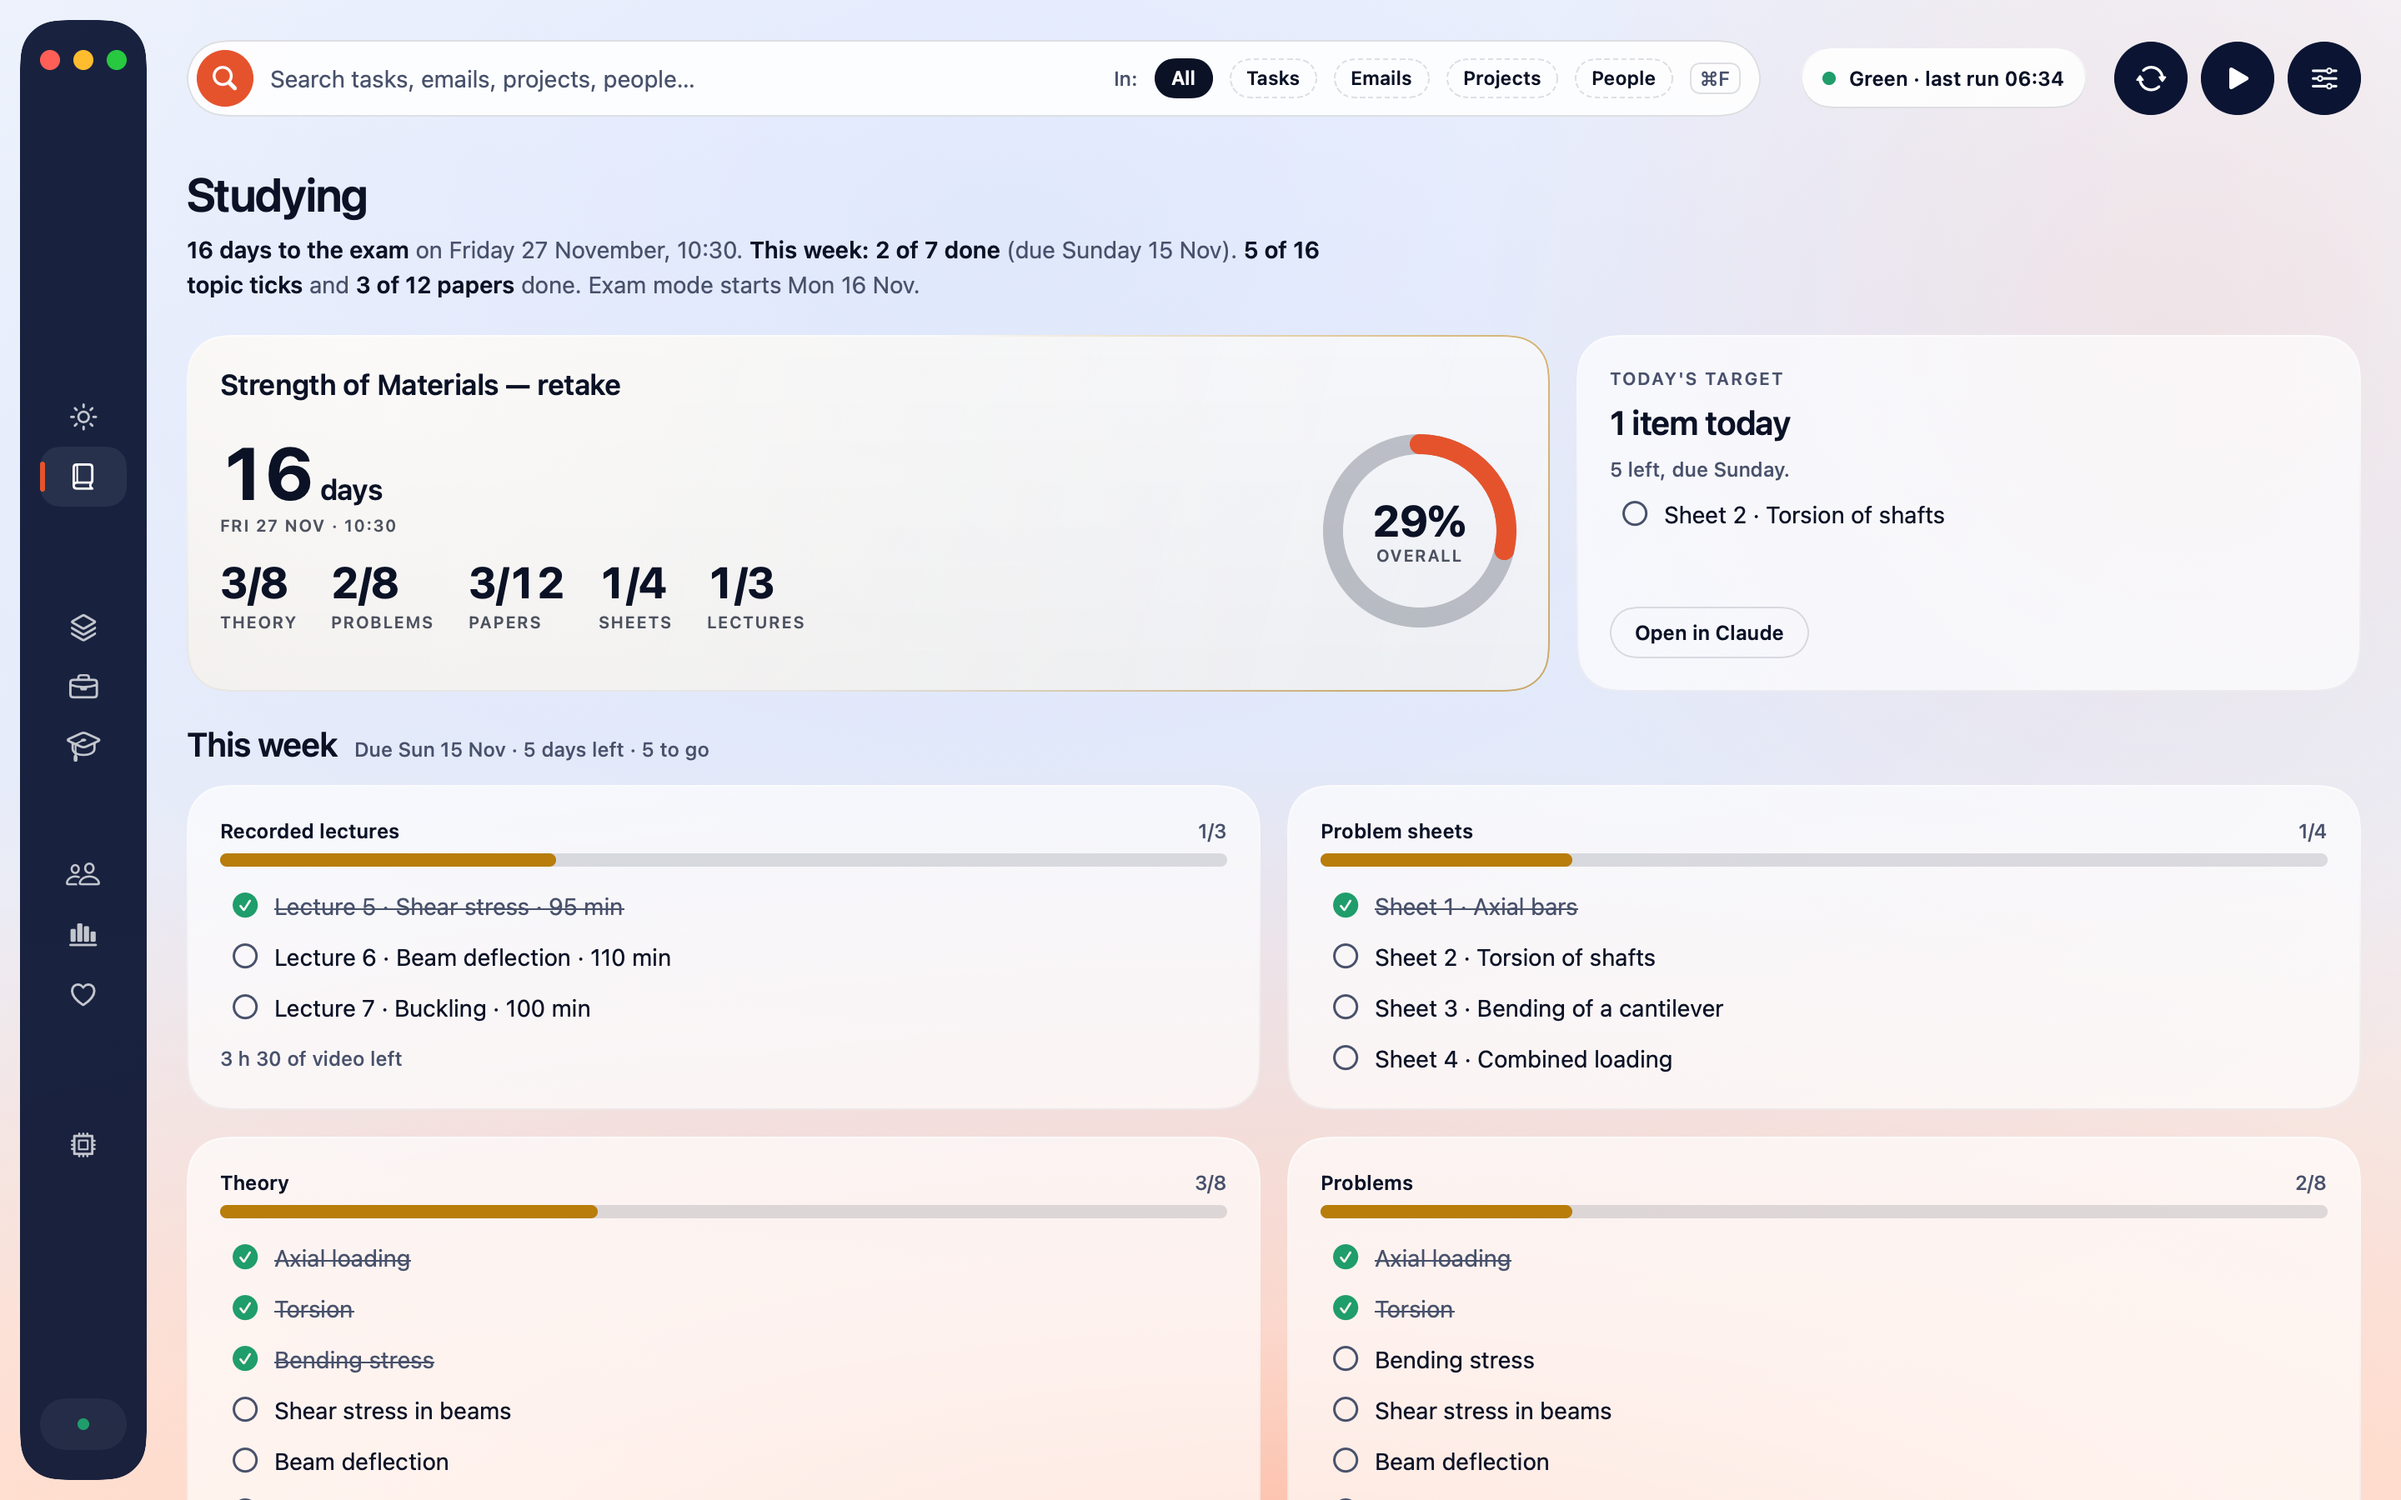
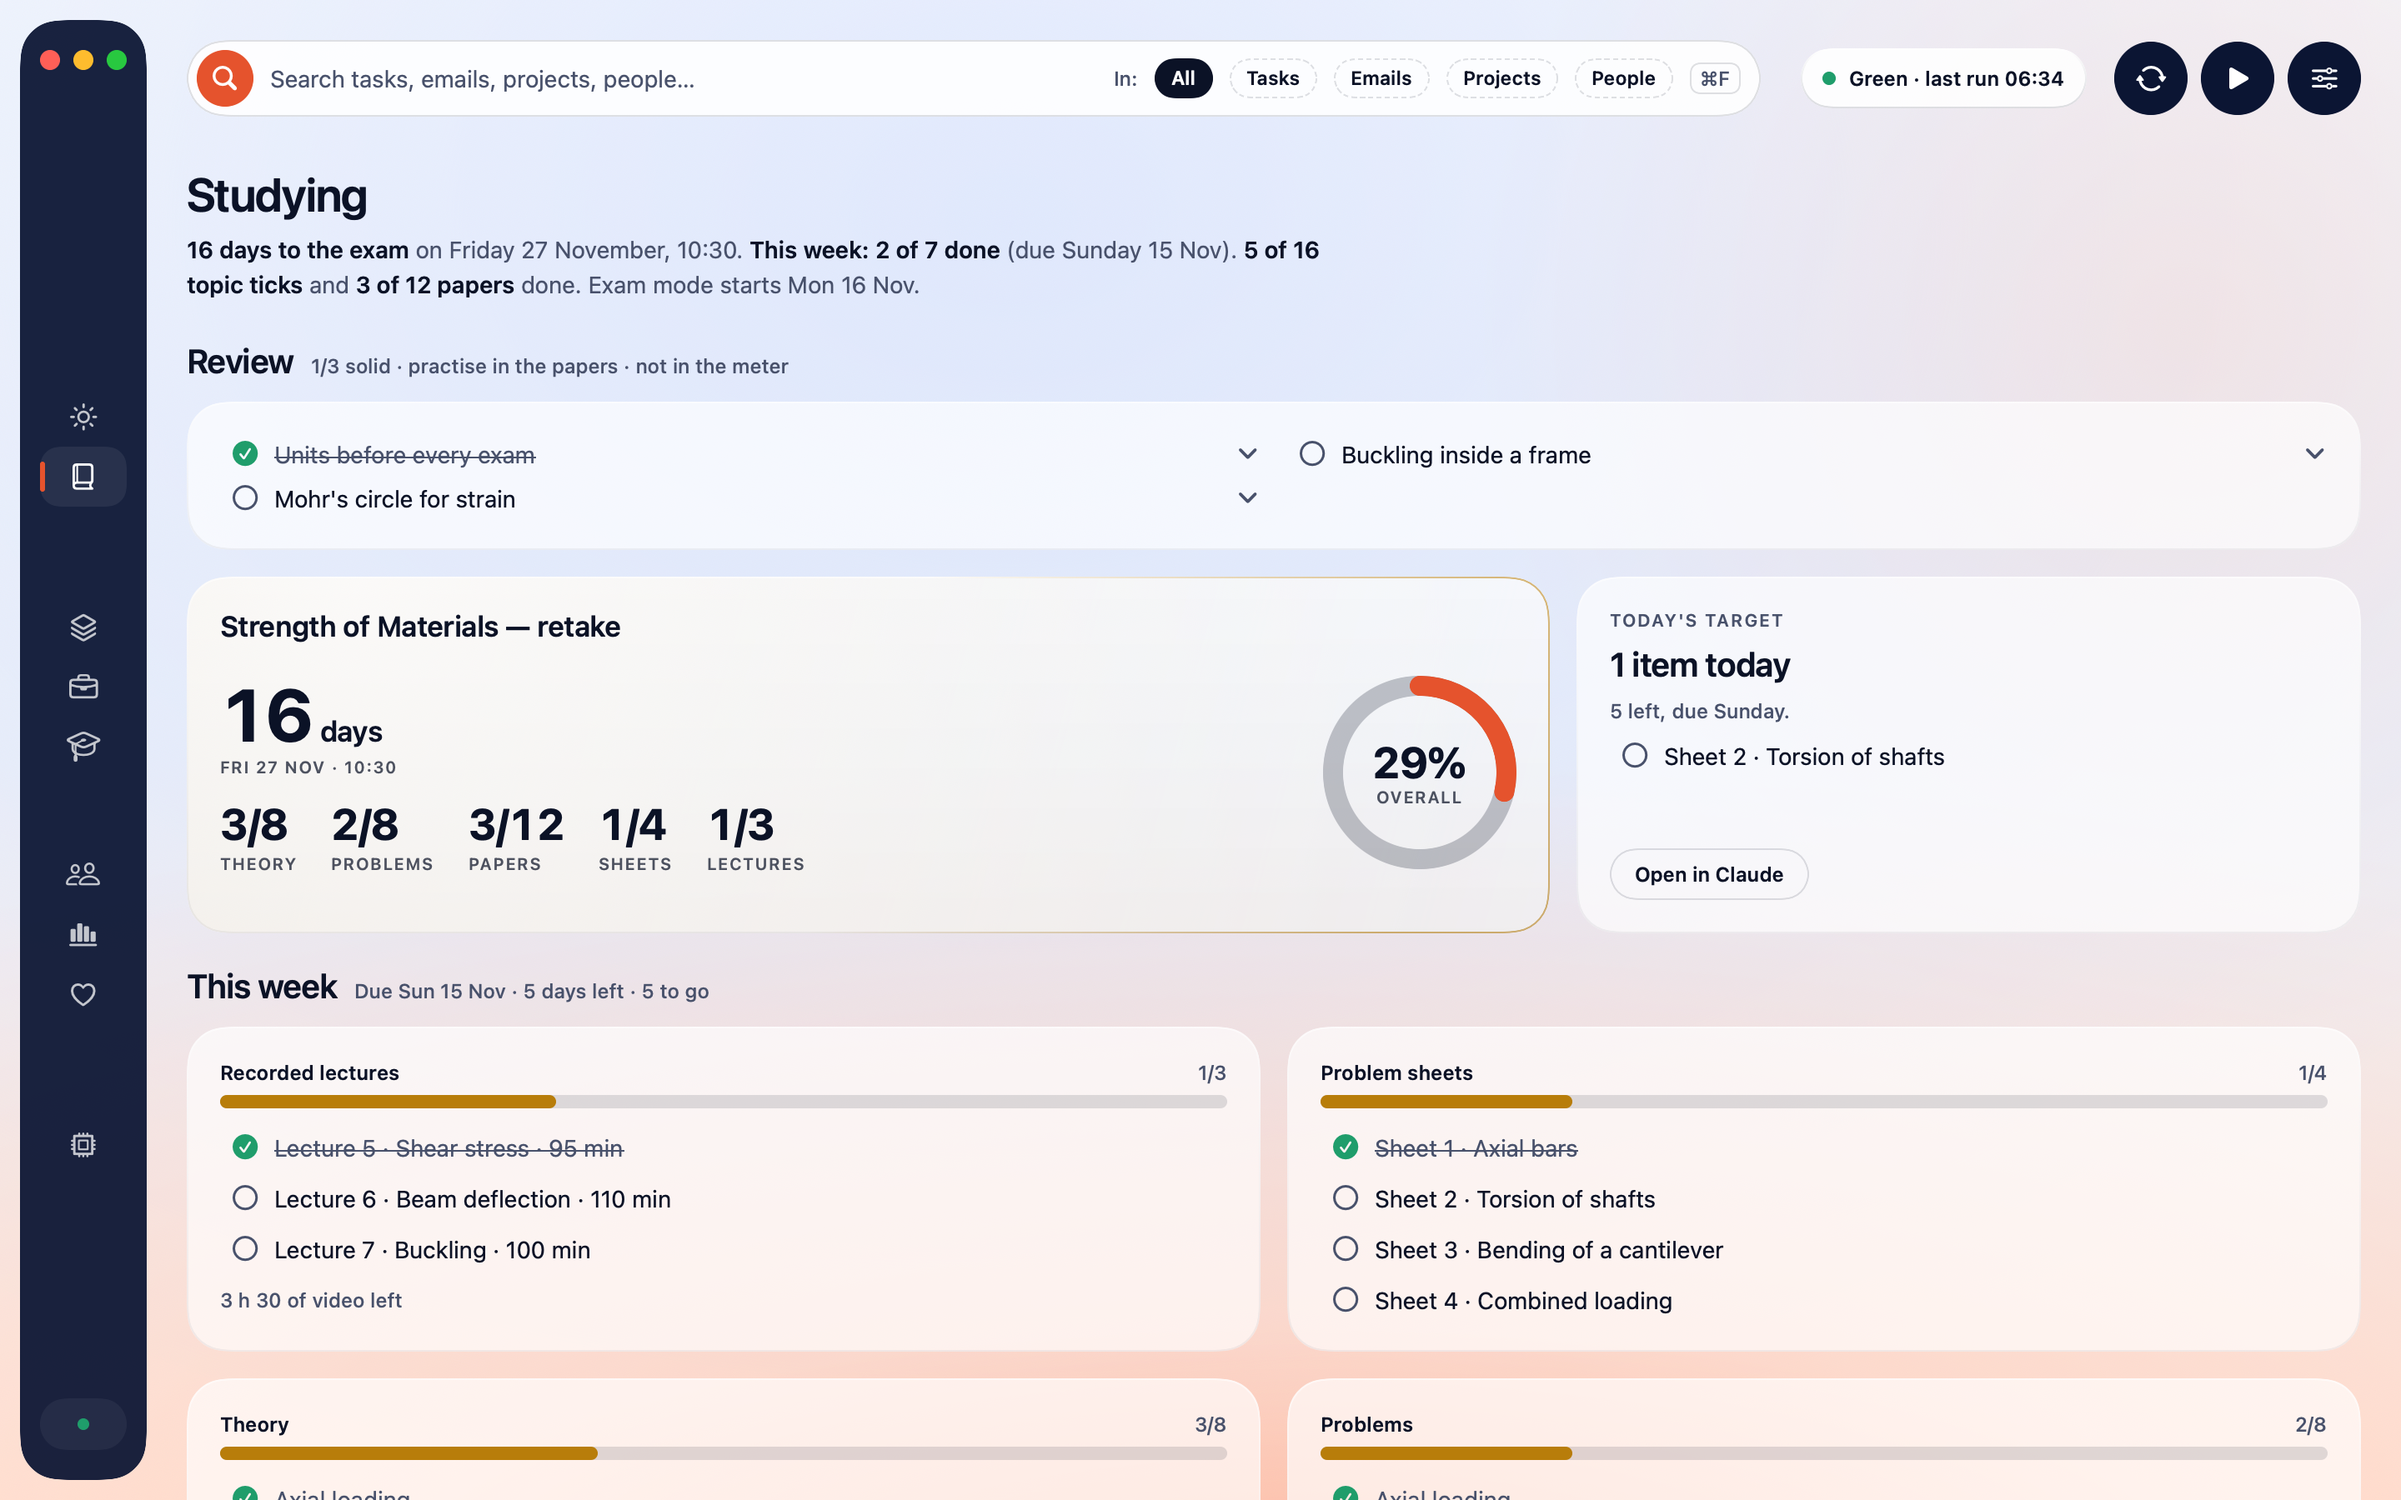
Studying: a Review card first, for concepts practised through the papers; not in the meter

Changed region(s): [[0.0625, 0.2178, 1.0, 1.0], [0.6562, 0.4044, 0.75, 0.5289], [0.75, 0.4978, 0.8125, 0.5289]]

diff --git a/Sources/Desk/Tabs/Studying/Studying.swift b/Sources/Desk/Tabs/Studying/Studying.swift
@@ -111,6 +111,74 @@ struct StudyTargetCard: View {
     }
 }
 
+/// `## Review`: concepts to practise through the papers, in two columns. Ticked when solid; not in the meter.
+struct StudyReview: View {
+    @Environment(Store.self) private var store
+    @Environment(\.theme) private var t
+
+    var body: some View {
+        let d = store.d
+        if let path = d.data.settings.exam?.file, let review = d.study?.review, !review.isEmpty {
+            let half = (review.count + 1) / 2
+            VStack(alignment: .leading, spacing: t.sp8) {
+                SectionHeader(title: "Review", subtitle: "\(d.reviewProgress.text) solid · practise in the papers · not in the meter")
+                SurfaceCard {
+                    HStack(alignment: .top, spacing: t.sp16) {
+                        column(review.prefix(half), path)
+                        column(review.dropFirst(half), path)
+                    }
+                }
+            }
+        }
+    }
+
+    private func column(_ concepts: ArraySlice<StudyFile.Concept>, _ path: String) -> some View {
+        VStack(alignment: .leading, spacing: t.sp4) {
+            ForEach(concepts) { concept in
+                ConceptRow(path: path, concept: concept)
+            }
+        }
+        .frame(maxWidth: .infinity, alignment: .leading)
+    }
+}
+
+/// One review concept: its tick, and its notes behind a chevron.
+private struct ConceptRow: View {
+    @Environment(\.theme) private var t
+    @State private var open = false
+    let path: String
+    let concept: StudyFile.Concept
+
+    var body: some View {
+        VStack(alignment: .leading, spacing: t.sp2) {
+            HStack(spacing: t.sp4) {
+                CheckLine(path: path, check: concept.check)
+                if !concept.notes.isEmpty {
+                    Button { open.toggle() } label: {
+                        Image(systemName: open ? "chevron.up" : "chevron.down")
+                            .font(.system(size: t.symbolSmall, weight: .bold))
+                            .foregroundStyle(t.inkMuted)
+                            .frame(width: t.symbol, height: t.symbol)
+                            .contentShape(Rectangle())
+                    }
+                    .buttonStyle(.plain)
+                    .help(open ? "Hide notes" : "Show notes")
+                    .accessibilityLabel(Text(verbatim: (open ? "Hide notes for " : "Show notes for ") + concept.check.title))
+                }
+            }
+            if open {
+                VStack(alignment: .leading, spacing: t.sp2) {
+                    ForEach(Array(concept.notes.enumerated()), id: \.offset) { _, note in
+                        Text(verbatim: note).style(\.small, \.inkMuted).fixedSize(horizontal: false, vertical: true)
+                    }
+                }
+                .padding(.leading, t.symbol + t.sp8 + t.sp6)
+                .padding(.bottom, t.sp4)
+            }
+        }
+    }
+}
+
 /// The study file's own lists ("This weekend — due 2026-11-15"): a card per `###` group, two side by side.
 struct StudyLists: View {
     @Environment(Store.self) private var store

diff --git a/Sources/Desk/Model/Parsing/Parse+Study.swift b/Sources/Desk/Model/Parsing/Parse+Study.swift
@@ -44,8 +44,35 @@ extension Parse {
             planPerDay: min(maxPlanPerDay, max(0, fields["plan_per_day"].flatMap(Int.init) ?? 0)), planStart: day(fields["plan_start"], cal),
             theory: group("Theory"), problems: group("Problems"), papers: papers,
             lists: lists,
-            counts: studyCounts(fields["counts"])
+            counts: studyCounts(fields["counts"]),
+            review: studyReview(lines, from: bodyStart)
         )
+    }
+
+    /// `## Review`: each checkbox is a concept, and the indented bullets under it are its notes.
+    static func studyReview(_ lines: [String], from start: Int) -> [StudyFile.Concept] {
+        var concepts: [StudyFile.Concept] = []
+        var inReview = false
+        for index in lines.indices.dropFirst(start) {
+            let line = lines[index]
+            if let title = heading(line) {
+                inReview = title == "Review"
+            } else if inReview, let box = checkbox(line) {
+                concepts.append(StudyFile.Concept(check: Check(title: box.title, done: box.done, line: index), notes: []))
+            } else if inReview, !concepts.isEmpty, let note = reviewNote(line) {
+                concepts[concepts.count - 1].notes.append(note)
+            }
+        }
+        return concepts
+    }
+
+    /// "  - Practise: sheet 2" → "Practise: sheet 2". Only an indented bullet is a note.
+    private static func reviewNote(_ line: String) -> String? {
+        guard line.first?.isWhitespace == true else { return nil }
+        let rest = line.drop(while: \.isWhitespace)
+        guard let bullet = rest.first, "-*·".contains(bullet) else { return nil }
+        let text = rest.dropFirst().trimmingCharacters(in: .whitespaces)
+        return text.isEmpty ? nil : text
     }
 
     /// More extra figures than the exam card has room for.
@@ -61,7 +88,7 @@ extension Parse {
         return Array(pairs.prefix(maxStudyCounts))
     }
 
-    static let studySections: Set<String> = ["Theory", "Problems", "Past papers"]
+    static let studySections: Set<String> = ["Theory", "Problems", "Past papers", "Review"]
 
     /// "Past papers", "6 · Past papers": a list group that holds the paper plan.
     static func isPapersGroup(_ group: StudyList.Group) -> Bool {

diff --git a/Tests/DeskTests/ParserTests.swift b/Tests/DeskTests/ParserTests.swift
@@ -272,6 +272,12 @@ final class ParserTests: XCTestCase {
         XCTAssertEqual(study.theory.map(\.title), ["T1 Statics"])
         XCTAssertEqual(Derived.minutes(study.lists[0].items[0]), 105)
         XCTAssertEqual(Parse.study("## Week — due 15 Nov 2026\n- [ ] One", cal)?.lists.first?.due, Parse.day("2026-11-15", cal))
+        // `## Review`: concepts with their indented bullets as notes; not a list.
+        let review = try XCTUnwrap(Parse.study("## Review\n- [ ] Mohr\n  - Plot γ/2\n  · Practise: sheet 2\nnot a note\n- [x] Units\n## Theory\n  - not a note", cal))
+        XCTAssertTrue(review.lists.isEmpty)
+        XCTAssertEqual(review.review.map(\.check.title), ["Mohr", "Units"])
+        XCTAssertEqual(review.review.map(\.notes), [["Plot γ/2", "Practise: sheet 2"], []])
+        XCTAssertEqual(review.review.map(\.check.done), [false, true])
         // Checkboxes, by hand: indented, starred, or not a box at all.
         XCTAssertEqual(Parse.checkbox("  * [X] Done")?.done, true)
         XCTAssertEqual(Parse.checkbox("- [ ] Spaced  ")?.title, "Spaced")

diff --git a/Sources/Desk/Model/Models.swift b/Sources/Desk/Model/Models.swift
@@ -164,10 +164,19 @@ struct StudyFile {
     /// Extra figures on the exam card, from `counts: Carnicero = Hoja, Vídeos = Sesión`:
     /// each counts the list items whose title starts with its prefix.
     var counts: [Count] = []
+    /// `## Review`: concepts to practise through the papers, ticked once they feel solid. Not part of any progress.
+    var review: [Concept] = []
 
     struct Count: Hashable {
         var caption: String
         var prefix: String
+    }
+
+    struct Concept: Identifiable, Hashable {
+        var check: Check
+        /// The indented bullets under it: what to remember, where to practise.
+        var notes: [String]
+        var id: Int { check.line }
     }
 
     struct Paper: Identifiable, Hashable {

diff --git a/Tests/DeskTests/DerivedTests.swift b/Tests/DeskTests/DerivedTests.swift
@@ -118,6 +118,8 @@ final class DerivedTests: XCTestCase {
         // Overall counts his own lists too: 3 + 2 + 3 + 2 done of 8 + 8 + 12 + 7.
         XCTAssertEqual(d.listsProgress.text, "2/7")
         XCTAssertEqual(d.studyProgress.text, "10/35")
+        // `## Review` concepts are tracked apart and stay out of the meter.
+        XCTAssertEqual(d.reviewProgress.text, "1/3")
         // `counts: Sheets = Sheet, Lectures = Lecture` adds figures over the lists.
         XCTAssertEqual(d.extraCounts.map(\.caption), ["Sheets", "Lectures"])
         XCTAssertEqual(d.extraCounts.map(\.progress.text), ["1/4", "1/3"])

diff --git a/Sources/Desk/Model/Derived+Studying.swift b/Sources/Desk/Model/Derived+Studying.swift
@@ -40,6 +40,9 @@ extension Derived {
         return (study?.lists ?? []).flatMap(\.items).contains { paperLines.contains($0.line) }
     }
 
+    /// Review concepts ticked as solid. Kept out of `studyProgress` on purpose.
+    var reviewProgress: Progress { Self.progress((study?.review ?? []).map(\.check)) }
+
     /// The extra figures from `counts:`, each over every list item whose title starts with its prefix.
     var extraCounts: [(caption: String, progress: Progress)] {
         let items = listItems

diff --git a/Sources/Desk/Tabs/TabLayout.swift b/Sources/Desk/Tabs/TabLayout.swift
@@ -49,6 +49,7 @@ enum TabLayout {
             DeskSection("today.timeline", "Timeline", slot: .rail) { DayTimeline() },
         ]
         case .studying: [
+            DeskSection("study.review", "Review") { StudyReview() },
             DeskSection("study.hero", "Exam countdown", width: 500) { StudyHero() },
             DeskSection("study.target", "Today's target", width: 288) { StudyTargetCard() },
             DeskSection("study.lists", "Lists") { StudyLists() },

diff --git a/SPEC.md b/SPEC.md
@@ -76,7 +76,7 @@ A JSON array of rows. The web Desk reads the same file.
 
 ### Jose's files
 - `TASKS.md`: Markdown checkboxes under `##` sections. Due date as `📅 YYYY-MM-DD` (Obsidian Tasks format).
-- The study file (path in `settings.exam.file`): front matter `exam, date, plan_per_day, plan_start` and optional `counts` (`Carnicero = Hoja, Vídeos = Sesión`: an extra figure on the exam card per pair, counting list items whose title starts with the prefix); sections `## Theory` and `## Problems` (one checkbox per topic) and `## Past papers` (`- [x] June 2025 — 2026-11-08 — 6.5/10`; unticked papers have no date or score).
+- The study file (path in `settings.exam.file`): front matter `exam, date, plan_per_day, plan_start` and optional `counts` (`Carnicero = Hoja, Vídeos = Sesión`: an extra figure on the exam card per pair, counting list items whose title starts with the prefix); sections `## Theory` and `## Problems` (one checkbox per topic) and `## Past papers` (`- [x] June 2025 — 2026-11-08 — 6.5/10`; unticked papers have no date or score). Optional `## Review`: concepts to practise through the papers, one checkbox each, with indented bullets as notes; shown first on Studying and kept out of every progress figure.
 - `projects/<slug>.md`: front matter `title, status (active|waiting|frozen|idea), next, next_date?, doc?` (`doc` is a vault path, e.g. `Research/EMG project.md`). Body: sub-items as checkboxes. Never restates the doc's facts.
 - `uni/<slug>.md`: front matter `title, deadline_row` (a snapshot `deadline` id) and `comparison_heading` (a `###` heading in `Masters/Programme comparison.md`). Body: the checklist (portal, CV, statement, letters, transcript, fee, submitted).
 - `internships/board.json` (Jose's, edited from Desk): `{openings: [{id, order, company, title, location, start, duration, language, eligType (graduate|convenio), eligibility, fit, url, status, notes, added}], targets: [{id, name, kind, track, place, placeOrder, priority, status, url, why, notes}]}`. Status words: Not started, Researching, Applied, Interviewing, Offer, Rejected / closed.

diff --git a/starter-vault/CLAUDE.md b/starter-vault/CLAUDE.md
@@ -16,6 +16,8 @@ file are in `demo-vault/` in the repository.
   with that word). Sections `## Theory`, `## Problems` and `## Past papers` hold checklists. Any other
   `## Title — due 2027-01-31` section is a to-do list with a due day; `### Group` splits it; `· 60 min` at the
   end of a line is a duration. A finished paper reads `- [x] June 2025 — 2027-01-12 — 7/10`.
+  `## Review` holds concepts to practise through the papers: a checkbox each, indented bullets as notes; it
+  shows first and never counts towards progress.
 - `uni/<name>.md`: front matter `title`, then a checklist of application steps.
 - `internships/board.json`, `contacts/board.json`, `tutoring/`: copy the shape from `demo-vault/`.
 

diff --git a/demo-vault/study/strength-of-materials.md b/demo-vault/study/strength-of-materials.md
@@ -52,3 +52,13 @@ counts: Sheets = Sheet, Lectures = Lecture
 - [ ] January 2021
 - [ ] June 2020
 - [ ] January 2020
+
+## Review
+- [x] Units before every exam
+  - kN·m to N·mm is ×10⁶; cm⁴ to mm⁴ is ×10⁴
+- [ ] Mohr's circle for strain
+  - Plot γ/2, not γ
+  - Practise: Sheet 2 and the strain gauge questions
+- [ ] Buckling inside a frame
+  - Check the weak axis first
+  - Practise: the buckling questions in June 2023
